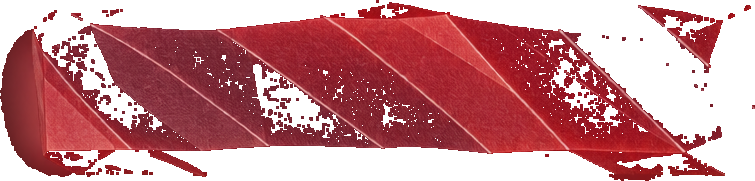
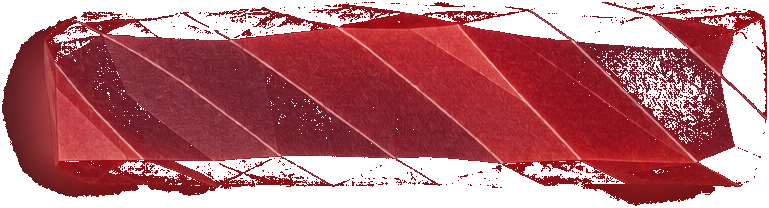
your-cut uses target rice; strips full width

diff --git a/play/board.js b/play/board.js
@@ -40,7 +40,7 @@
   loadImg('maki', '/play/assets/board/maki-target.png');
   loadImg('base', '/play/assets/board/maki-base.png');
   ['salmon','cucumber','tuna'].forEach((k) => {
-    loadImg(k, '/play/assets/board/' + k + '.png?v=2');
+    loadImg(k, '/play/assets/board/' + k + '.png?v=3');
     loadImg('bit-' + k, '/play/assets/board/bit-' + k + '.png');
   });
 
@@ -134,24 +134,24 @@
     ctx.rotate(ang);
     ctx.beginPath();
     ctx.moveTo(R * 0.04, 0);
-    ctx.lineTo(R * 0.20, R * 0.18);
-    ctx.lineTo(R * 0.38, R * 0.12);
-    ctx.lineTo(R * 0.46, 0);
+    ctx.lineTo(R * 0.24, R * 0.30);
+    ctx.lineTo(R * 0.50, R * 0.18);
+    ctx.lineTo(R * 0.58, 0);
     ctx.closePath();
     ctx.fillStyle = c[0];
     ctx.fill();
     ctx.beginPath();
     ctx.moveTo(R * 0.04, 0);
-    ctx.lineTo(R * 0.46, 0);
-    ctx.lineTo(R * 0.38, -R * 0.12);
-    ctx.lineTo(R * 0.20, -R * 0.16);
+    ctx.lineTo(R * 0.58, 0);
+    ctx.lineTo(R * 0.50, -R * 0.18);
+    ctx.lineTo(R * 0.24, -R * 0.26);
     ctx.closePath();
     ctx.fillStyle = c[1];
     ctx.fill();
     ctx.beginPath();
-    ctx.moveTo(R * 0.20, R * 0.18);
-    ctx.lineTo(R * 0.38, R * 0.12);
-    ctx.lineTo(R * 0.32, R * 0.02);
+    ctx.moveTo(R * 0.24, R * 0.30);
+    ctx.lineTo(R * 0.50, R * 0.18);
+    ctx.lineTo(R * 0.42, R * 0.04);
     ctx.closePath();
     ctx.fillStyle = c[2];
     ctx.fill();
@@ -168,26 +168,17 @@
     ctx.save();
     ctx.translate(cx, cy);
     const rad = size / 2;
+    if (imgs.base) ctx.drawImage(imgs.base, -size / 2, -size / 2, size, size);
+    else {
+      ctx.beginPath(); ctx.arc(0, 0, rad, 0, TAU);
+      ctx.fillStyle = '#1a1c18'; ctx.fill();
+    }
+    ctx.save();
     ctx.beginPath();
-    ctx.arc(0, 0, rad, 0, TAU);
-    ctx.fillStyle = '#1a1c18';
-    ctx.fill();
-    ctx.beginPath();
-    ctx.arc(0, 0, rad * 0.88, 0, TAU);
+    ctx.arc(0, 0, rad * 0.52, 0, TAU);
     ctx.fillStyle = '#f4eee4';
     ctx.fill();
-    for (let i = 0; i < 22; i++) {
-      const a = (i / 22) * TAU;
-      const rr0 = rad * 0.70;
-      ctx.beginPath();
-      ctx.ellipse(Math.cos(a) * rr0, Math.sin(a) * rr0, rad * 0.11, rad * 0.075, a, 0, TAU);
-      ctx.fillStyle = i % 2 ? '#efe6d4' : '#faf6ee';
-      ctx.fill();
-    }
-    ctx.beginPath();
-    ctx.arc(0, 0, rad * 0.48, 0, TAU);
-    ctx.fillStyle = '#f7f1e6';
-    ctx.fill();
+    ctx.clip();
     const slots = TARGET.slice().sort((a, b) => a.u - b.u);
     const placed = pieces.slice().sort((a, b) => a.u - b.u);
     for (let i = 0; i < placed.length; i++) {
@@ -195,11 +186,7 @@
       if (home == null) continue;
       drawFacetPetal(placed[i].kind, home, rad);
     }
-    ctx.beginPath();
-    ctx.arc(0, 0, rad, 0, TAU);
-    ctx.strokeStyle = '#1a1c18';
-    ctx.lineWidth = 3;
-    ctx.stroke();
+    ctx.restore();
     ctx.restore();
     return true;
   }
@@ -401,21 +388,12 @@
       const hold = G.drag && G.drag.id === p.id;
       const spr = imgs[p.kind];
       if (spr) {
-        const dh = r.h * 0.9;
-        const dw = Math.min(r.w * 0.94, dh * (spr.width / spr.height) * 1.35);
-        const dx = r.x + (r.w - dw) / 2;
-        const dy = r.y + (r.h - dh) / 2;
-        ctx.save();
-        ctx.globalAlpha = 0.16;
-        ctx.fillStyle = '#1c2430';
-        rr(dx + 2, dy + 4, dw, dh, 12);
-        ctx.fill();
-        ctx.restore();
+        const dx = r.x, dy = r.y + r.h * 0.04, dw = r.w, dh = r.h * 0.92;
         ctx.drawImage(spr, dx, dy, dw, dh);
         if (hold) {
           ctx.strokeStyle = '#1c2430';
           ctx.lineWidth = 2;
-          rr(dx - 3, dy - 3, dw + 6, dh + 6, 12);
+          rr(dx - 2, dy - 2, dw + 4, dh + 4, 10);
           ctx.stroke();
         }
       } else {

diff --git a/play/index.html b/play/index.html
@@ -7,4 +7,4 @@
   canvas{display:block;width:100%;height:100%;touch-action:none}
 </style>
 <canvas id="c"></canvas>
-<script src="board.js?v=13"></script>
+<script src="board.js?v=14"></script>
